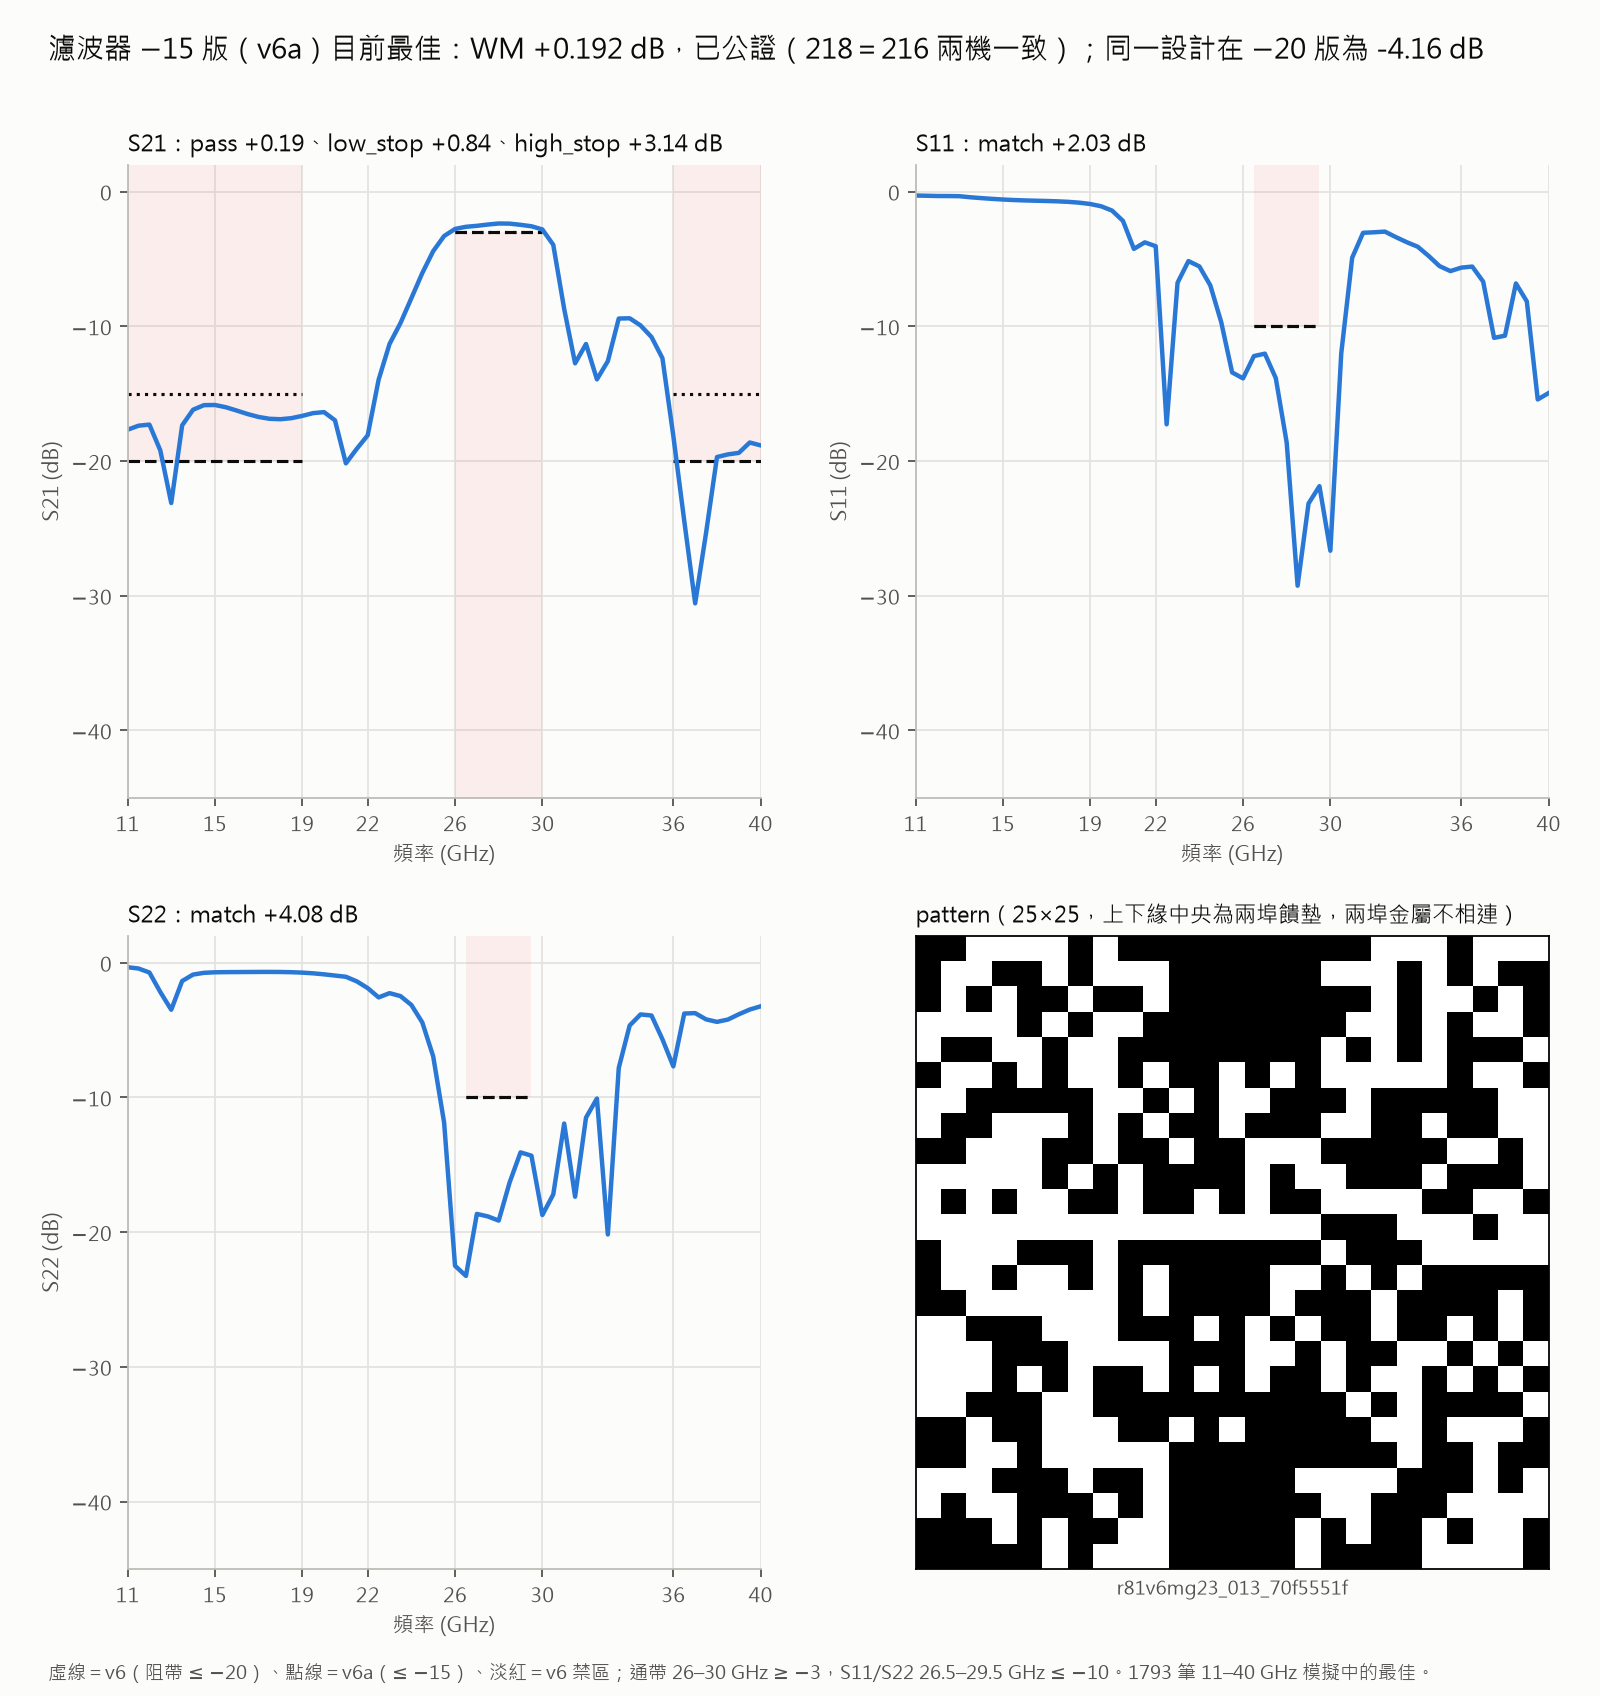
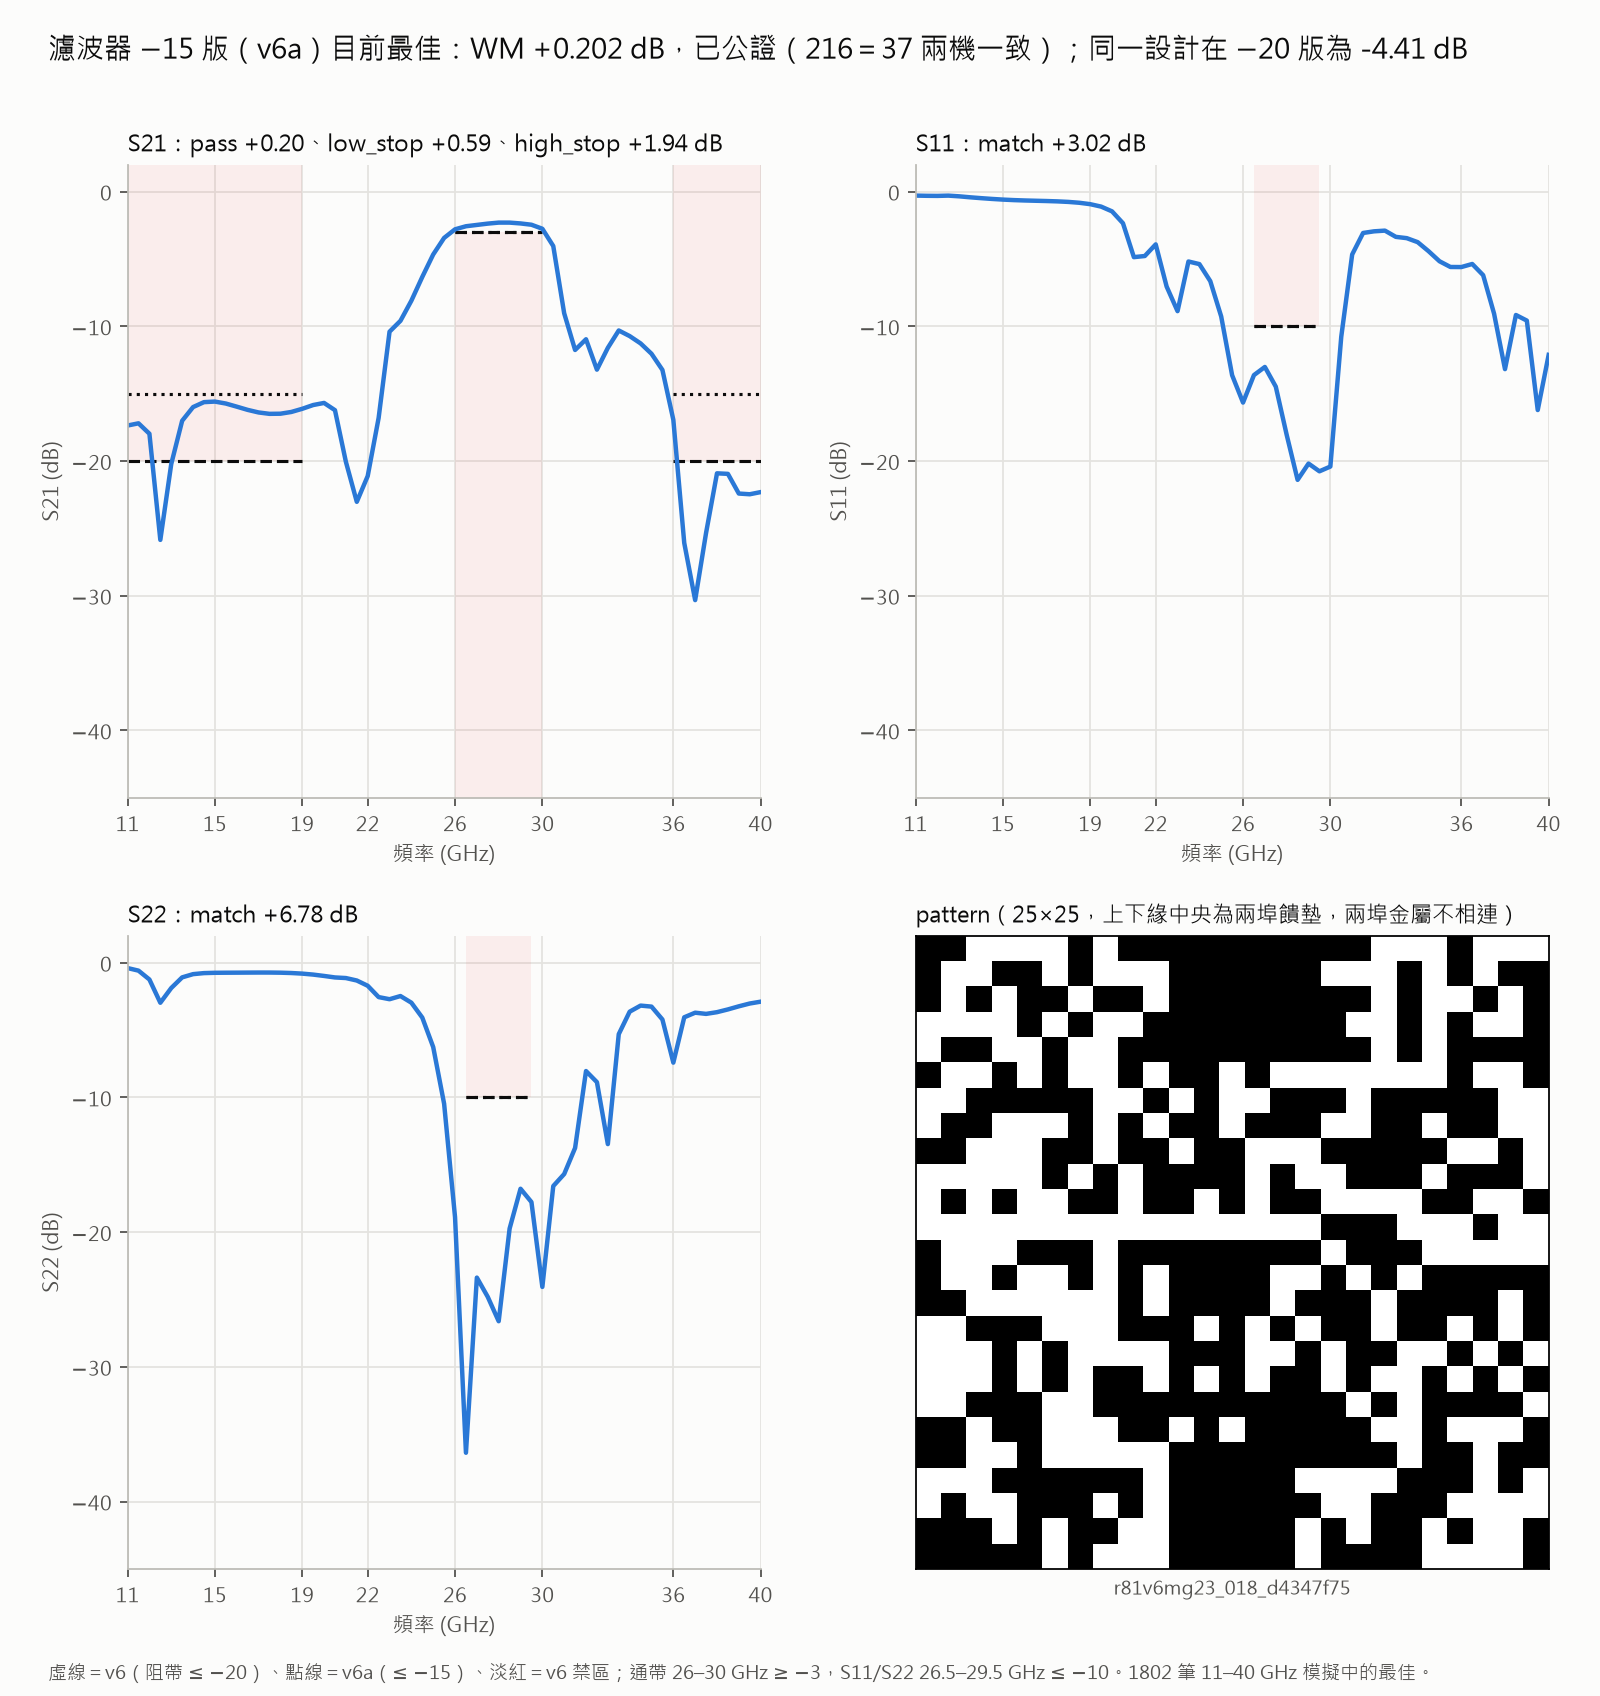
R94：公證 n17——mg23_018 +0.202（216=37），首個公證 ≥ +0.20

diff --git a/script/figs/r81_v6.py b/script/figs/r81_v6.py
@@ -30,7 +30,8 @@ NOTARIZED = {                     # v6a 跨機公證通過（round-89／90）；
     "r81v6mg08_018_41808495": "216＝218", "r81v6mg13_019_32a4c2ad": "216＝37", "r81v6mg13_017_e23e29e6": "216＝37",
     "r81v6mg14_015_00661532": "216＝37", "r81v6mg15_005_c943952c": "216＝37",
     "r81v6mg18_011_9c63dfbd": "37＝216", "r81v6mg20_011_04c84008": "216＝218",
-    "r81v6mg23_013_70f5551f": "218＝216"}
+    "r81v6mg23_013_70f5551f": "218＝216",
+    "r81v6mg23_018_d4347f75": "216＝37"}
 
 
 def rows_v6(cfg, grid):

diff --git a/configs/ONGOING.md b/configs/ONGOING.md
@@ -4,7 +4,7 @@
 > 2026-10-12 前的完整流水帳（R80 收尾、Codex 的 R81 release 機制、diffsim、資料工廠、🔜 候選、✅ 指標）原樣封存在
 > [docs/log/archive/ongoing-2026-10-12.md](../docs/log/archive/ongoing-2026-10-12.md)。
 
-最後更新：2026-10-22 15:37
+最後更新：2026-10-22 16:03
 
 ## 🔵 R81 寬頻濾波器 spec v2（running）→ [round-81](../docs/log/round-81-wide-filter.md)
 
@@ -43,6 +43,7 @@
 
 ## 🔵 R94 v6a 平台多設計移植（running）→ [round-94](../docs/log/round-94-plateau-merge.md)
 
+- **10-22 16:03 公證最佳 `mg23_018` +0.202**（216＝37）。
 - **10-22 15:37 公證最佳 `mg23_013` +0.192**（218＝216）；`mg23_018` +0.20 公證中（37）。
 - **10-22 13:56 公證最佳 `mg20_011` +0.189**（216＝218 完全一致）。
 - **10-22 13:39 新高（單次 216）`mg20_011` +0.19、`mg20_005` +0.18**——公證 n14 排 218（37 仍卡）。

diff --git a/docs/log/round-94-plateau-merge.md b/docs/log/round-94-plateau-merge.md
@@ -34,6 +34,10 @@
 - `mg23_013`（mg23 移植，218 原量）216 重量 **+0.1918，曲線差 0**——公證最佳（通帶 +0.19、低阻 +0.84、高阻 +3.14、S11 +2.03、S22 +4.08）。37 第三方 n16 加測中。
 - **R94 判準達成**（本輪 mg23 出現 ≥ +0.18 且公證）。另 `mg23_018` +0.20（216 量）公證 n17（37）排隊中。mg24（第 3 批）已排。
 
+### 2026-10-22 16:03：公證 n17——**mg23_018 +0.202（216＝37）**，公證最佳
+
+- `mg23_018`（mg23 移植，216 原量）37 重量 **+0.2017，曲線差 0**。五項：通帶 +0.202、低阻 +0.588、高阻 +1.941、S11 +3.017、S22 +6.780。首個公證 ≥ +0.20。
+
 ## 5. 結論 (Conclude)
 
 ## 6. 後續決策 (Next)
